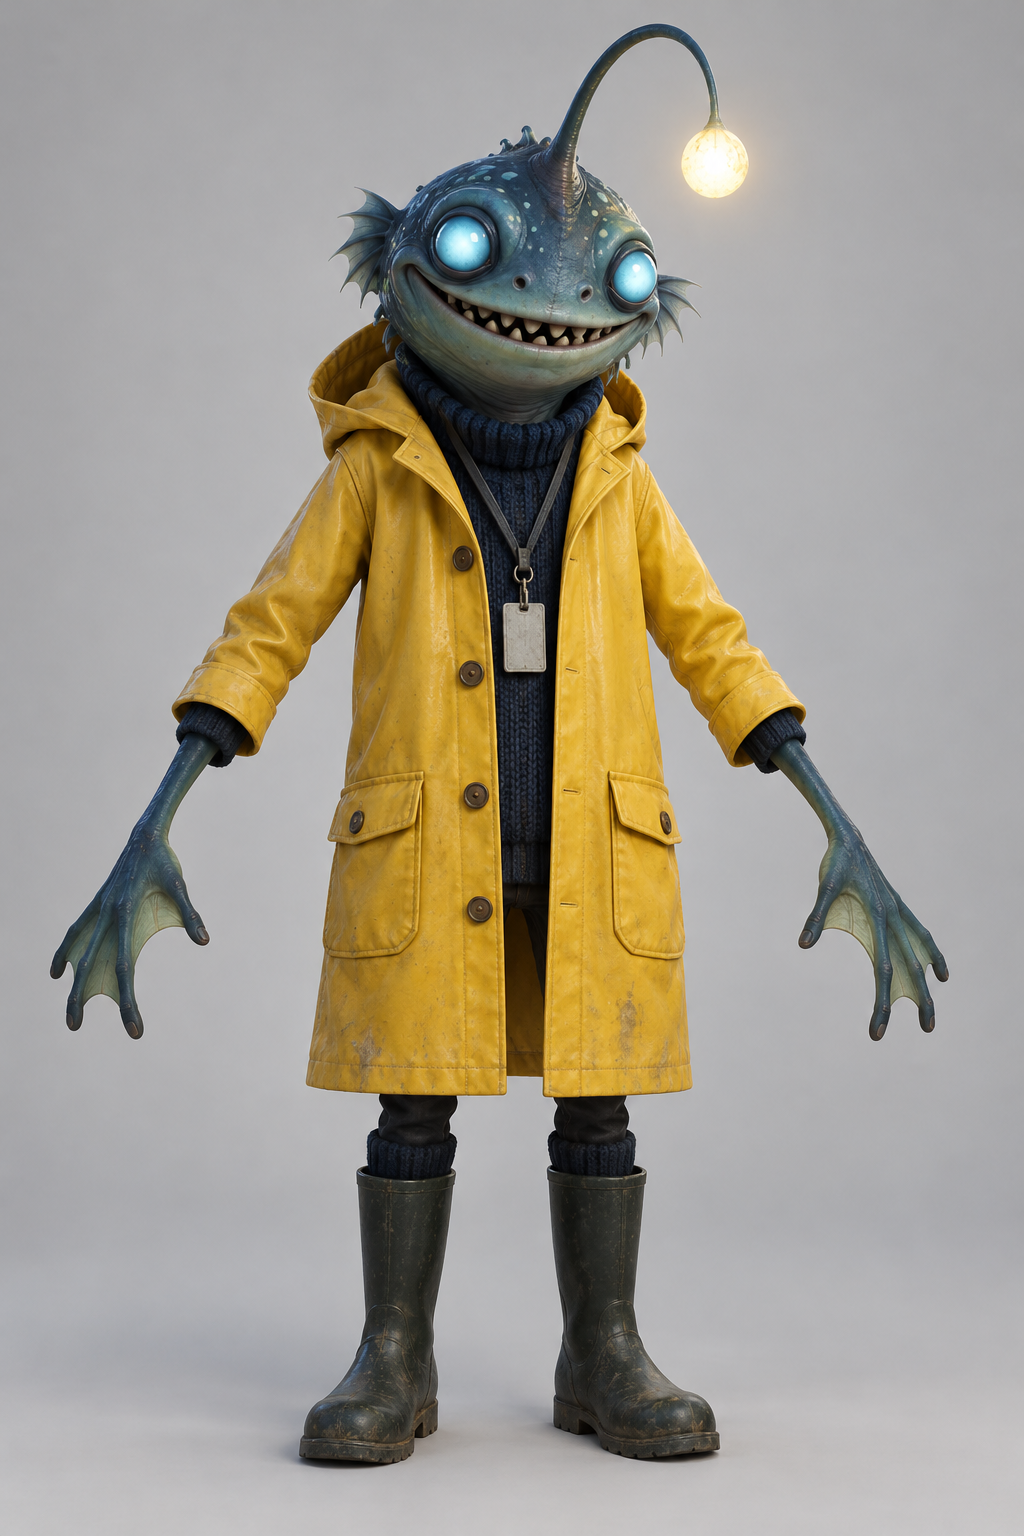
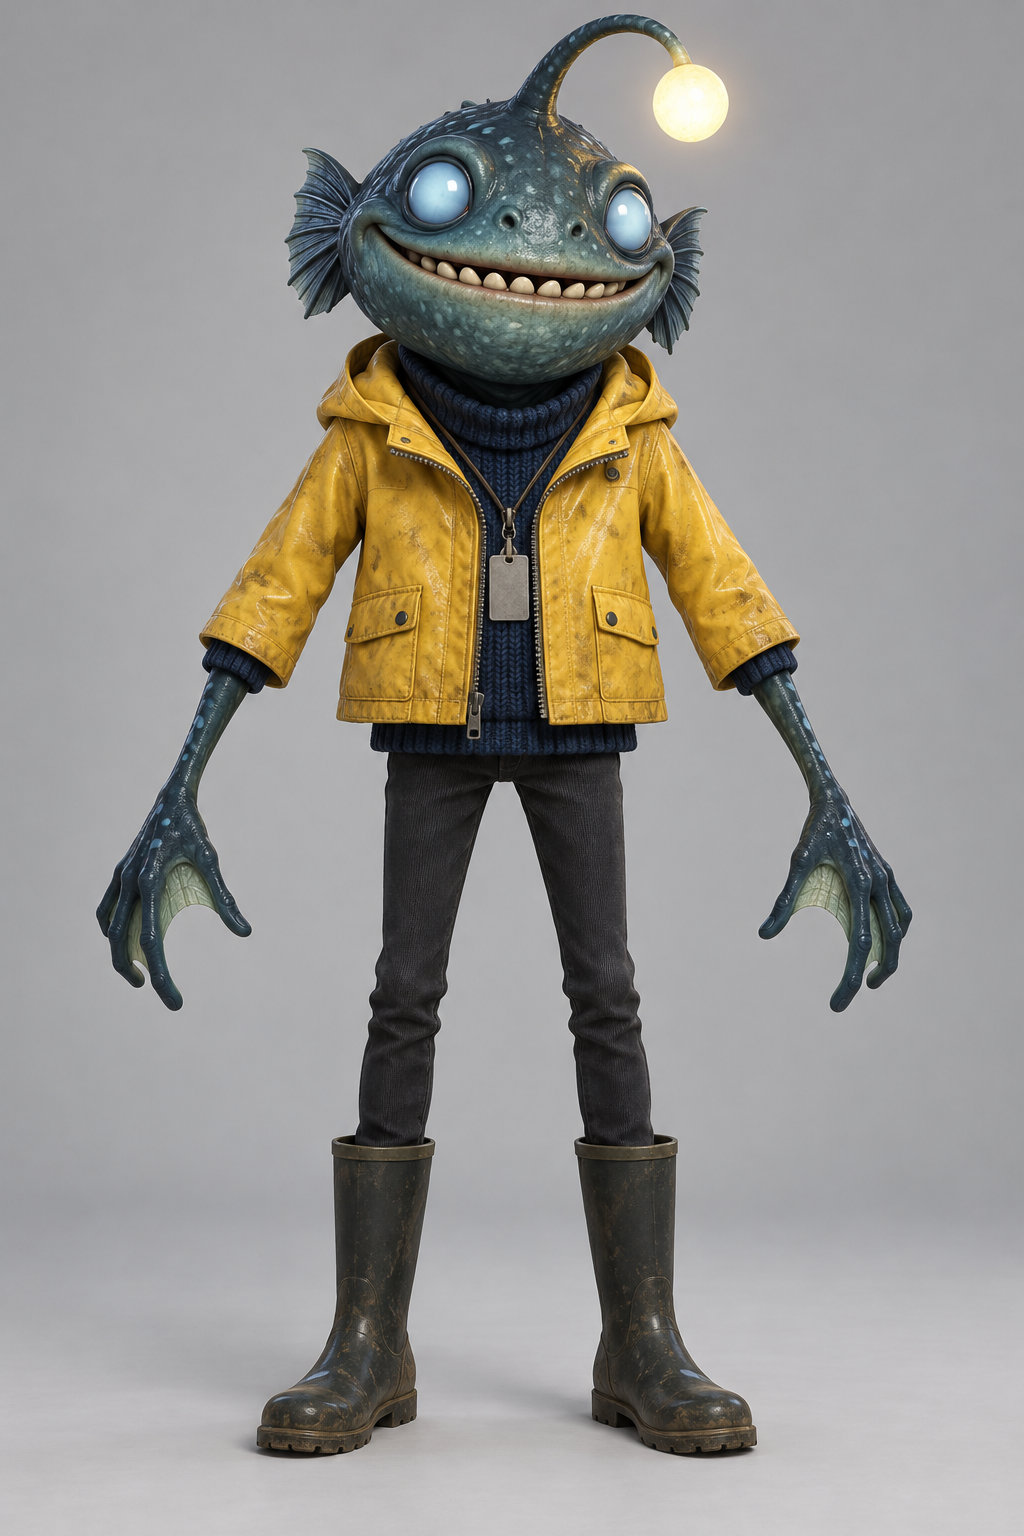
Clown Bear model id; the Secret Basement's own map card (remade without bottles) and its badge picture; Anglerfish Keeper picture remade (blunt teeth, hip-length jacket)

Changed region(s): [[0.0312, 0.0, 0.9375, 0.9688]]

diff --git a/CARNIVAL.md b/CARNIVAL.md
@@ -29,10 +29,8 @@ walls, costume racks, juggling pins, a strongman's "1 TON" barbell.
 ## Pictures for the Lobby map screen (done 8 Oct)
 
 In `Config.MAP_IMAGES`: building-carnival 116987880187331, Midway
-139473943447483, Big Top 128885533879458, Funhouse 102152843956658. The
-Basement's (75305324855873) is uploaded but **not used**: the AI drew racks
-of wine bottles (an alcohol reference in a game for 8+). Remake it with
-"shelves of jam jars and pickles, no bottles" and send the new id.
+139473943447483, Big Top 128885533879458, Funhouse 102152843956658.  The
+Basement's: 103210033418692 (remade without the wine bottles the first had).
 
 Style line for every prompt (the other cards' look):
 > Stylised 3D diorama, a cut-away room seen from above at an angle, at night, warm lamps and Halloween string lights in orange and purple, little paper bats, a friendly-spooky mood for kids, no people, no text, no logos.
@@ -59,6 +57,7 @@ to give the Party House's Attic badge by mistake - fixed).
 
 Picture `art/model-input/host-clownbear/a-pose-front.png` - checked 8 Oct:
 no top hat, bow tie or microphone, no tummy symbol, not a known character.
+Saved model id 139812870283621 (`Config.CHARACTER_ASSETS.HostClownBear`).
 Model `art/models/host-clwonbear.glb` checked 8 Oct (face, arms clear; his
 back came out plain peach). Model name in Studio: **HostClownBear** (Party
 House ServerStorage -> Characters). He is the Carnival's own host; until
